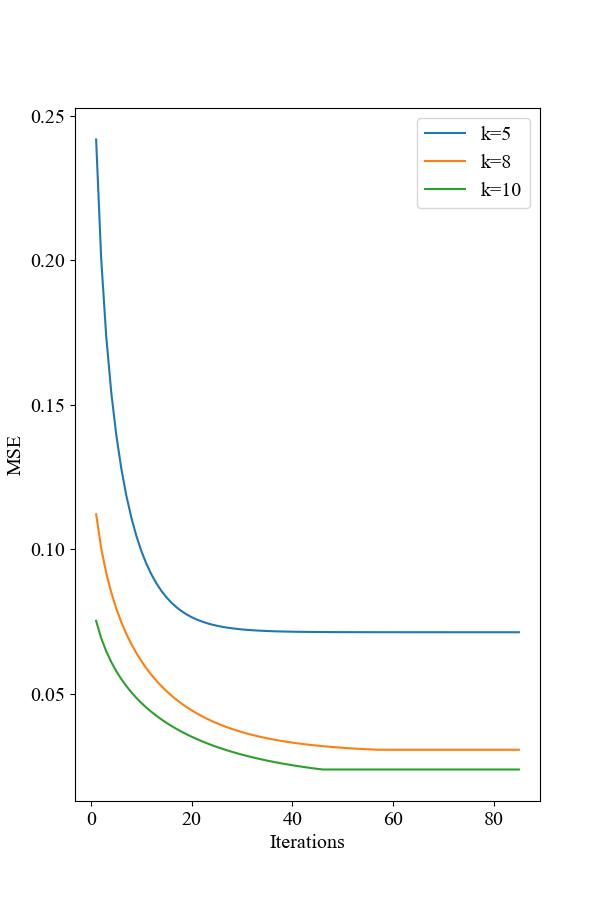
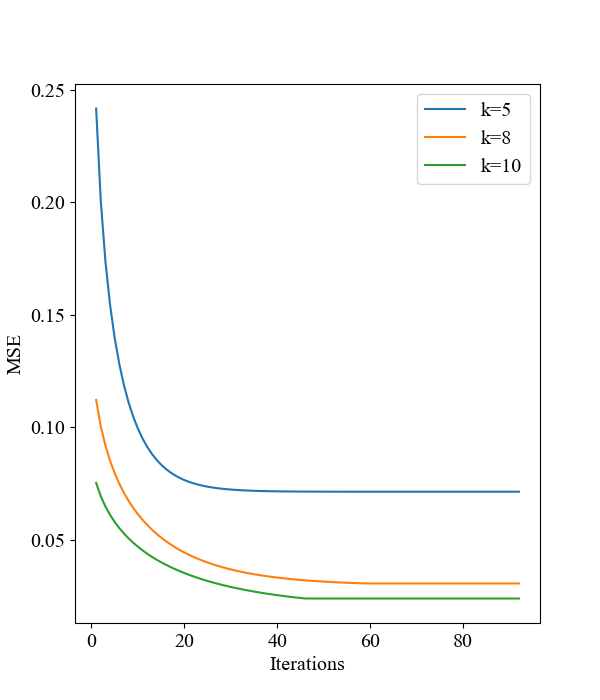
updated

diff --git a/main.py b/main.py
@@ -23,7 +23,7 @@ if __name__ == '__main__':
     bar_y = [pdf(l, i) for i in levels]
 
     params = {'legend.title_fontsize': 'xx-large',
-              'figure.figsize': (6, 9),
+              'figure.figsize': (6, 7),
               'legend.fontsize': 'x-large',
               'axes.labelsize': 'x-large',
               # 'axes.titlesize': 'xx-large',
